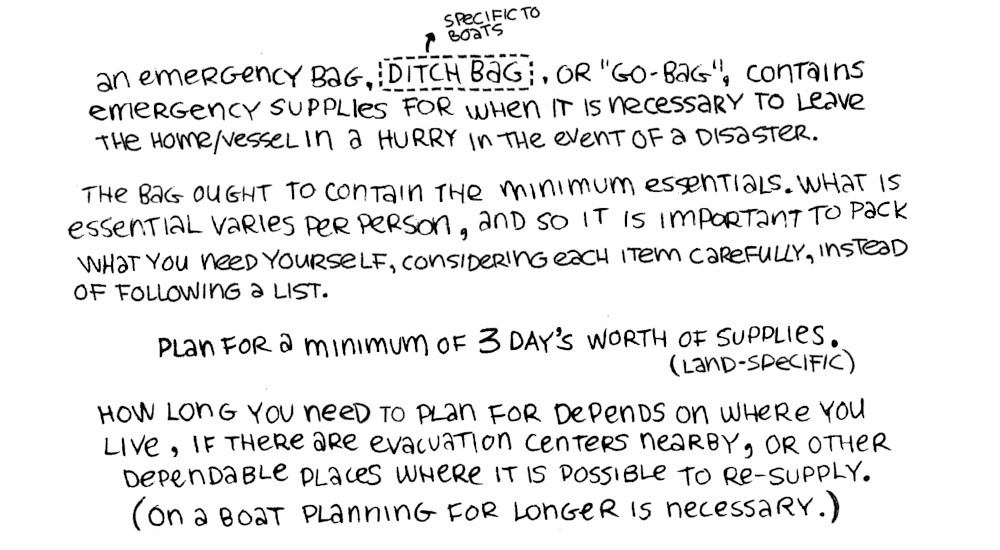
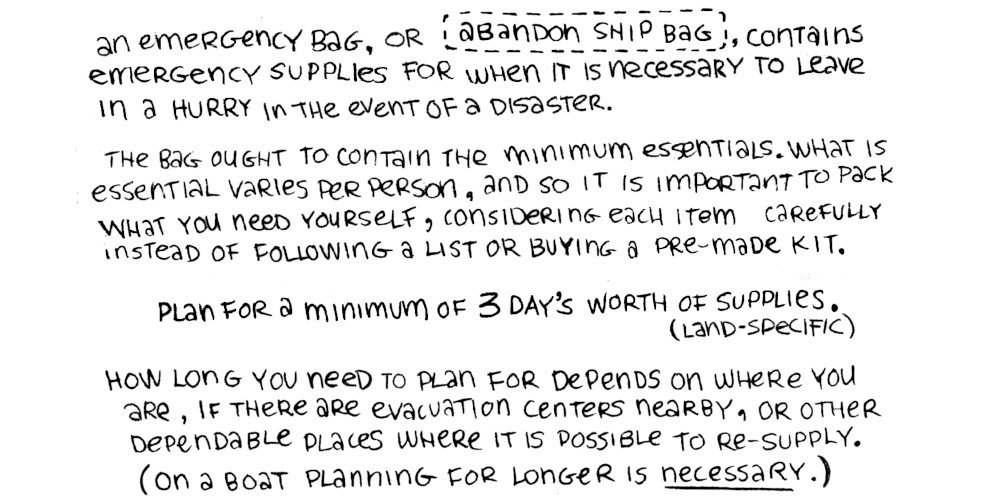
*

Changed region(s): [[0.0624, 0.0, 0.9044, 0.5723], [0.0936, 0.7229, 0.9044, 0.994], [0.1559, 0.5723, 0.8732, 0.6928]]

diff --git a/site/emergency_bag.html b/site/emergency_bag.html
@@ -22,19 +22,22 @@
 <main>
       <nav>
         <ul>
-            <li><a href="https://100r.co/site/ditch_bag.html" target="_blank">Ditch Bag</a></li>
+            <li><a href="https://100r.co/site/ditch_bag.html" target="_blank">Abandon Ship Bag</a></li>
             <li><a href="https://archive.org/details/disaster-preparedness-tokyo/" target="_blank">Bosai Tokyo</a></li>
         </ul>
     </nav>
     <div id='wrap'>
         <img src='../media/content/emergency_bag_02.jpg' loading ='lazy'>
-        <a style='width: 17%;height: 9%;top: 9%;left: 37%;' href="https://100r.co/site/ditch_bag.html" target="_blank"><span>Ditch Bag</span></a>
-        <p class='noprint'>An emergency bag, ditch bag(specific to boats), or "go-bag", contains emergency supplies for when it is necessary to leave the home/vessel in a hurry in the event of a disaster.<br>The bag ought to contain the minimum essentials. What is essential varies per person, and so it is important to pack what you need yourself, considering each item carefully, instead of following a list.<br>Plan for a minimum of 3 days' worth of supplies.<br>How long you need to plan for depends on where you live, if there are evacuation centers nearby, or other dependable places where it is possible to re-supply. (On a boat, planning for longer is necessary).</p>
+        <a style='width: 30%;height: 9%;top: 2%;left: 44%;' href="https://100r.co/site/ditch_bag.html" target="_blank"><span>Abandon Ship Bag</span></a>
+        <p class='noprint'>An emergency bag, or abandon ship bag, contains emergency supplies for when it is necessary to leave the home/vessel in a hurry in the event of a disaster.<br>The bag ought to contain the minimum essentials. What is essential varies per person, and so it is important to pack what you need yourself, considering each item carefully, instead of following a list.<br>Plan for a minimum of 3 days' worth of supplies.<br>How long you need to plan for depends on where you live, if there are evacuation centers nearby, or other dependable places where it is possible to re-supply. (On a boat, planning for longer is necessary).</p>
     </div>
-  <img src='../media/content/emergency_bag.jpg' alt='drawings of examples of items that sometimes come in an emergency bags: Radio, sextant, navigation tables(for sextant), current almanac(for sextant), pencil, notepad, stitching awl(and or) needle and thread, polarized sunglasses, flares, fish line and hooks, watch, personal location beacon (and or epirb), sunscreen, toothbrush, toothpaste, first-aid kit, spoon, multi-tool, bug spray, waterproof matches, paracord, emergency blanket, toilet paper, lighter, medicine, compass, mirror, hand sanitizer(or soap), batteries, tarp(or tent), multivitamins, candles, towel, whistle, gloves, rain jacket, duct tape, cup, water(3L per person), map(physical), blanket(or sleeping bag), knife, serrated knife, flashlight, rope, high-calorie foods, bowl, portable cooking stove(and fuel), ID, money, photos of family/friends.' loading ='lazy'>
-  <p class='noprint'>Radio, sextant, navigation tables(for sextant), current almanac(for sextant), pencil, notepad, stitching awl(and or) needle and thread, polarized sunglasses, flares, fish line and hooks, watch, personal location beacon (and or epirb), sunscreen, toothbrush, toothpaste, first-aid kit, spoon, multi-tool, bug spray, waterproof matches, paracord, emergency blanket, toilet paper, lighter, medicine, compass, mirror, hand sanitizer(or soap), batteries, tarp(or tent), multivitamins, candles, towel, whistle, gloves, rain jacket, duct tape, cup, water(3L per person), map(physical), blanket(or sleeping bag), knife, serrated knife, flashlight, rope, high-calorie foods, bowl, portable cooking stove(and fuel), ID, money, photos of family/friends.</p>
-<img src='../media/content/emergency_bag_03.jpg' loading ='lazy'>
-  <p class='noprint'>Some items ought to be shared by a group, carried in additional bags (ex: cooking stove, bucket toilet etc).<br>A good bag design:<br>1) Keeps your hands free. 2) Distributes the weight in the bag well (on the hips). 3) Is waterproof.<br>Pack the items away, and place the bag near an entrance so that it is possible to grab it quickly when leaving.<br>Store critical items on your person rather than in the bag (identity documents, money, prescription medicine, etc), in case the bag goes missing, or is stolen.</p>
+    <img src='../media/content/emergency_bag.jpg' alt='drawings of examples of items that sometimes come in an emergency bags: Radio, sextant, navigation tables(for sextant), current almanac(for sextant), pencil, notepad, stitching awl(and or) needle and thread, polarized sunglasses, flares, fish line and hooks, watch, personal location beacon (and or epirb), sunscreen, toothbrush, toothpaste, first-aid kit, spoon, multi-tool, bug spray, waterproof matches, paracord, emergency blanket, toilet paper, lighter, medicine, compass, mirror, hand sanitizer(or soap), batteries, tarp(or tent), multivitamins, candles, towel, whistle, gloves, rain jacket, duct tape, cup, water(3L per person), map(physical), blanket(or sleeping bag), knife, serrated knife, flashlight, rope, high-calorie foods, bowl, portable cooking stove(and fuel), ID, money, photos of family/friends.' loading ='lazy'>
+    <p class='noprint'>Radio, sextant, navigation tables(for sextant), current almanac(for sextant), pencil, notepad, stitching awl(and or) needle and thread, polarized sunglasses, flares, fish line and hooks, watch, personal location beacon (and or epirb), sunscreen, toothbrush, toothpaste, first-aid kit, spoon, multi-tool, bug spray, waterproof matches, paracord, emergency blanket, toilet paper, lighter, medicine, compass, mirror, hand sanitizer(or soap), batteries, tarp(or tent), multivitamins, candles, towel, whistle, gloves, rain jacket, duct tape, cup, water(3L per person), map(physical), blanket(or sleeping bag), knife, serrated knife, flashlight, rope, high-calorie foods, bowl, portable cooking stove(and fuel), ID, money, photos of family/friends.</p>
+    <h2>Mutual Aid</h2>
+    <img src='../media/content/emergency_bag_03.jpg' loading ='lazy'>
+    <p class='noprint'>Some items ought to be shared by a group, carried in additional bags (ex: cooking stove, bucket toilet etc).<br>A good bag design:<br>1) Keeps your hands free. 2) Distributes the weight in the bag well (on the hips). 3) Is waterproof.<br>Pack the items away, and place the bag near an entrance so that it is possible to grab it quickly when leaving.<br>Store critical items on your person rather than in the bag (identity documents, money, prescription medicine, etc), in case the bag goes missing, or is stolen.</p>
+    <img src='../media/content/emergency_bag_04.jpg' alt='a rabbit is conversing to an elderly parrot about preparedness. In another image, smoke is seen emanating from a house, two rabbits are accompanying the eldery parrot, carrying their emergency bag for them.' loading ='lazy'>
+    <p class='noprint'>Take the time to make a plan before disaster strikes. That way you, your family, friends, and your community will be ready.<br>Talk to your neighbors, make a plan together. The combined efforts of the community is important to overcome a disaster.<br>Become aware of people in your community with special needs: Expectant mothers, children, those with illnesses or disabilities.<br>When a disaster occurs, check on your loved ones and neighbors, in case they need your help.</p>
 </main>
 <footer>
     <div id='wrapfooter'>
